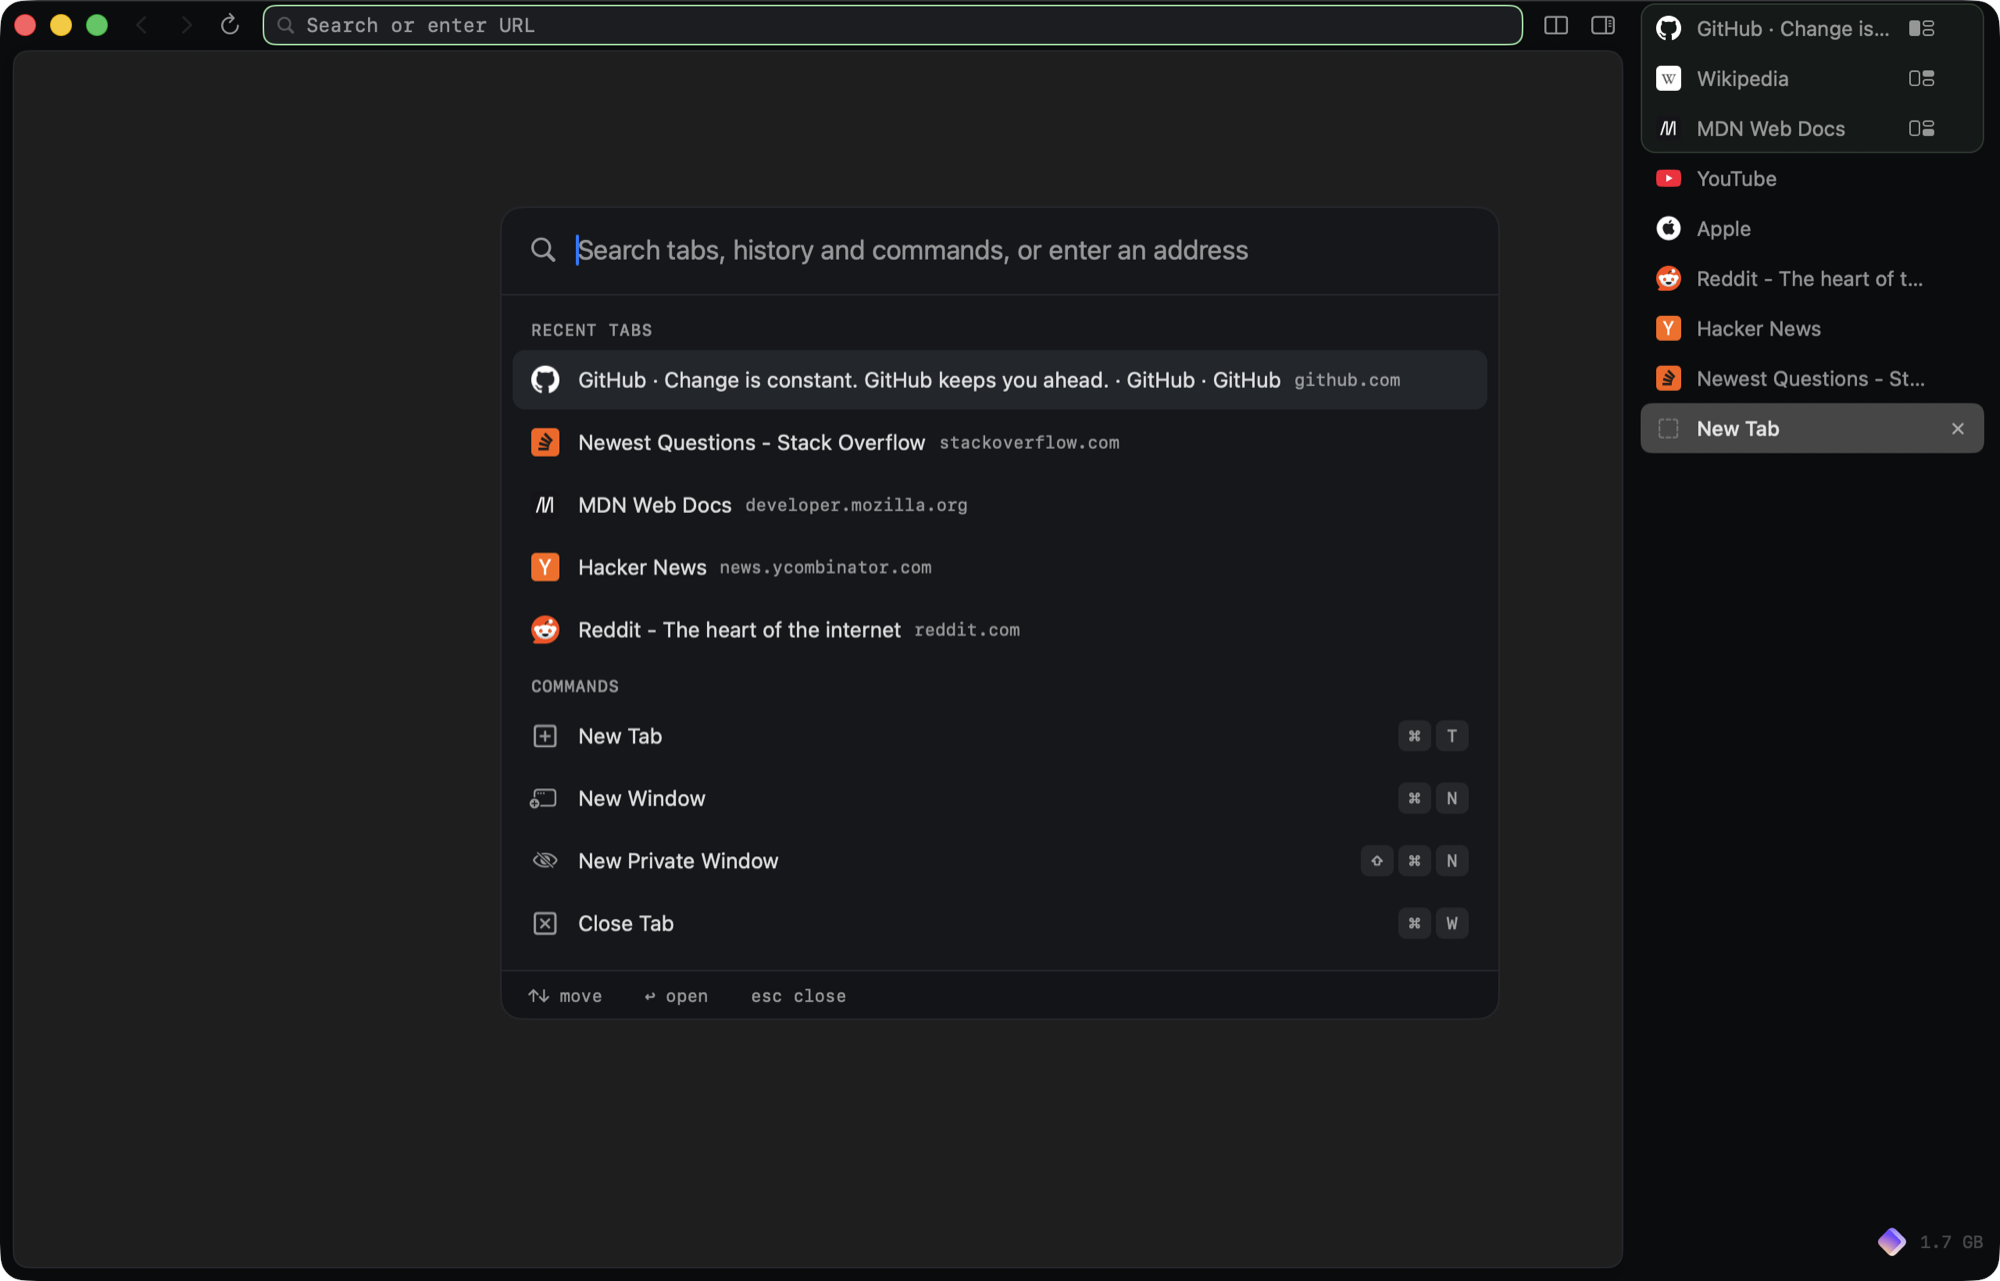
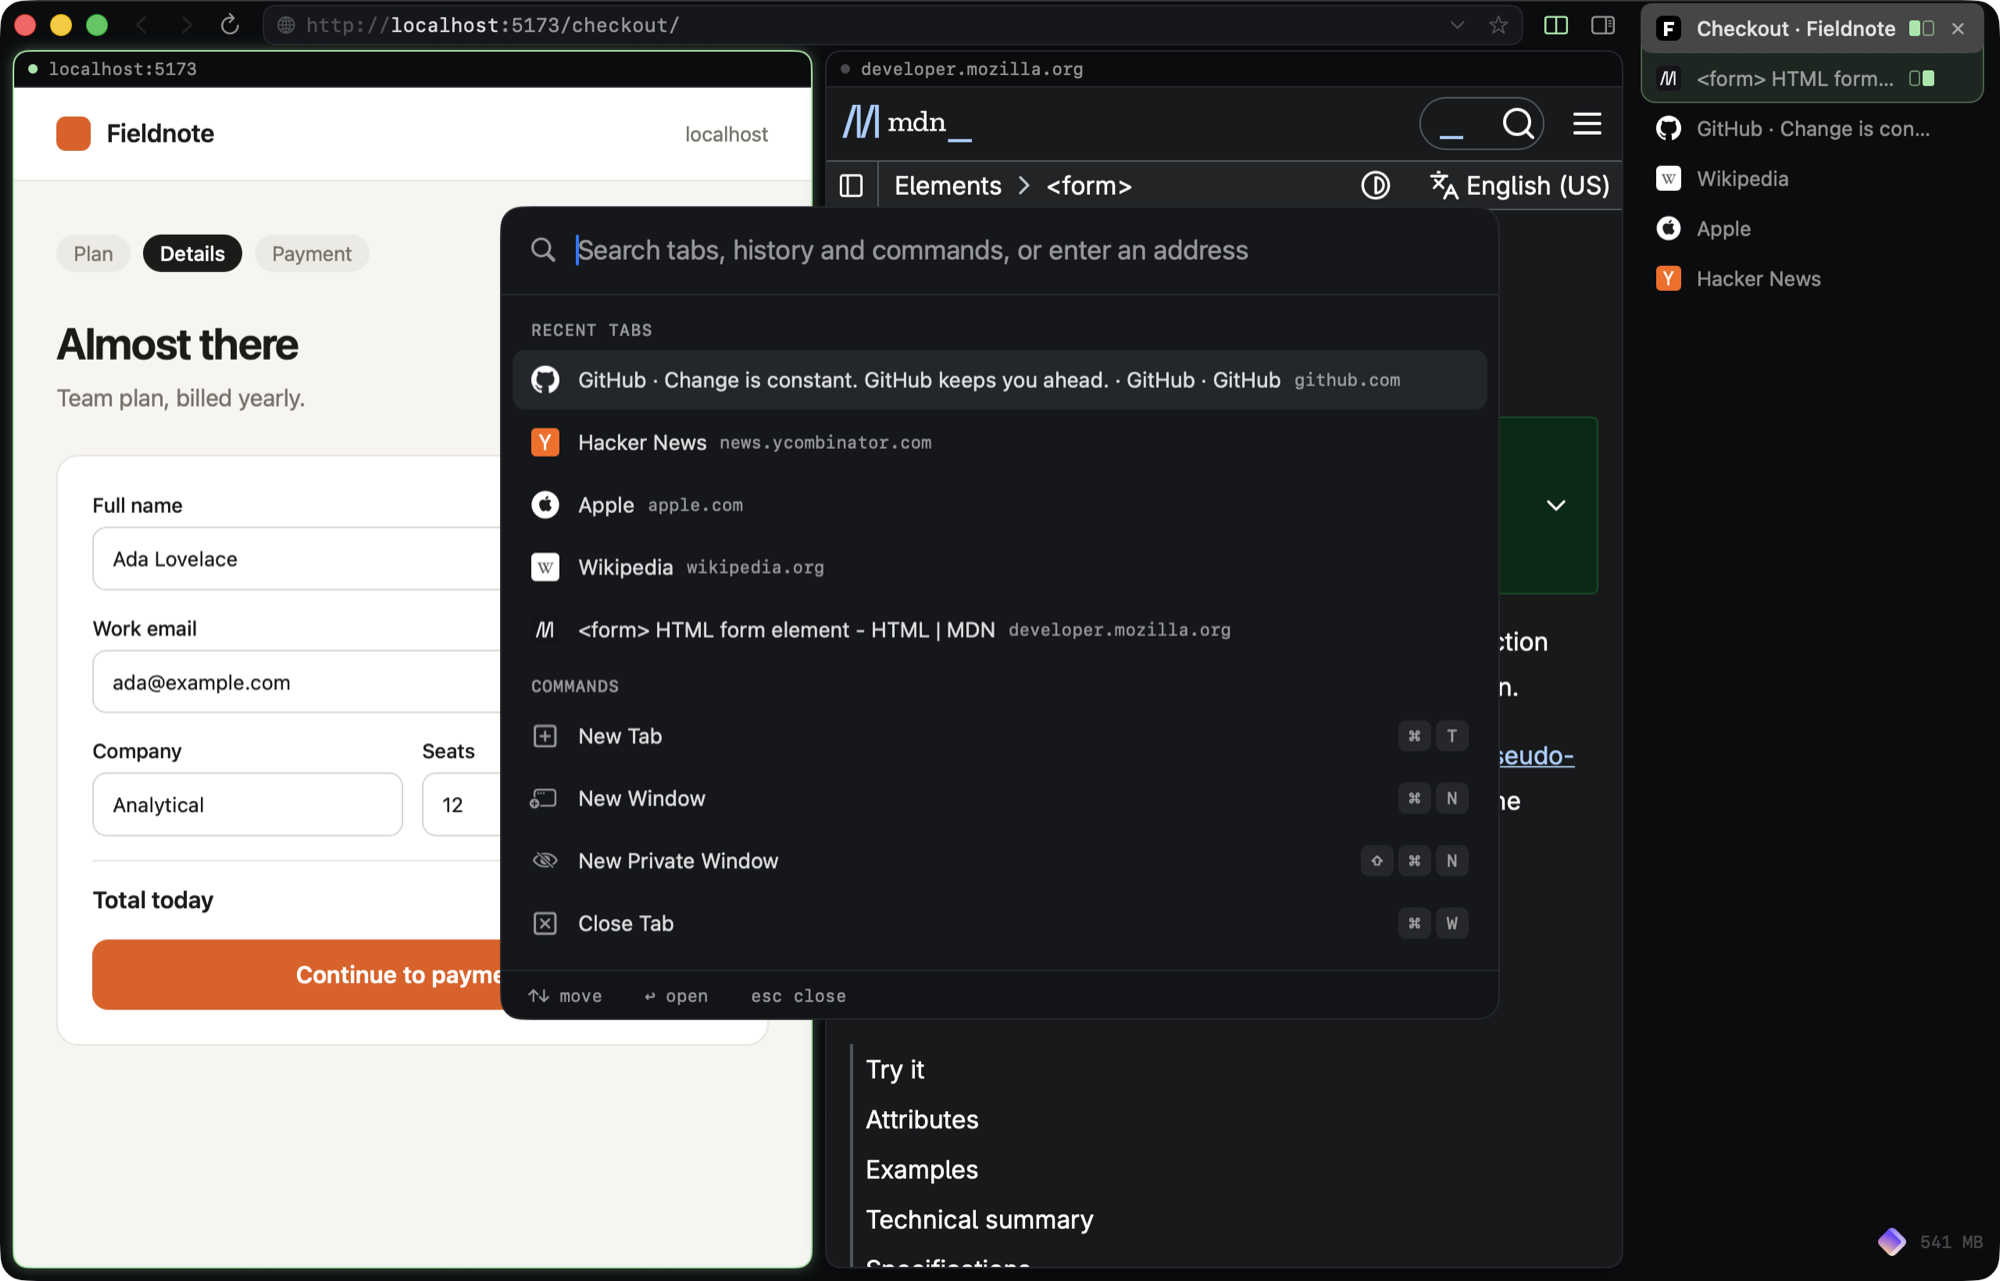
Show an agent at work in the hero, and design a real OG image
The hero is now a split view with an agent filling in a local app beside
its docs. The OG image is a designed 1200x630 card instead of a resized
screenshot.

diff --git a/site/src/routes/+page.svelte b/site/src/routes/+page.svelte
@@ -63,6 +63,9 @@
 	<meta property="og:title" content="Tern: a small, fast browser for the Mac" />
 	<meta property="og:description" content="Native on WebKit, built for the keyboard, and open to your coding agents." />
 	<meta property="og:image" content="https://tern.torsten.work/og.jpg" />
+	<meta property="og:image:width" content="1200" />
+	<meta property="og:image:height" content="630" />
+	<meta name="twitter:card" content="summary_large_image" />
 </svelte:head>
 
 <nav class="nav" aria-label="Main">
@@ -90,7 +93,7 @@
     </div>
     <div class="wrap wide shot">
       <div class="window" bind:this={hero}>
-        <enhanced:img src="../lib/assets/hero.png" alt="Tern's new tab page, with the address bar across the top and vertical tabs on the right." sizes="(min-width: 1240px) 1200px, 100vw" fetchpriority="high"></enhanced:img>
+        <enhanced:img src="../lib/assets/hero.png" alt="An agent filling in a checkout form in Tern, with a purple ring around its pane and docs in a split beside it, and the tab list on the right." sizes="(min-width: 1240px) 1200px, 100vw" fetchpriority="high"></enhanced:img>
       </div>
     </div>
     <div class="wrap">

diff --git a/README.md b/README.md
@@ -8,7 +8,7 @@
   <a href="docs/development.md">Development</a>
 </p>
 
-![Tern's new tab page, with the address bar across the top and the tab list on the right](docs/hero.png)
+![An agent filling in a checkout form in Tern, with a purple ring around its pane and docs in a split beside it, and the tab list on the right](docs/hero.png)
 
 > **Status:** early and moving fast. Tern works as a daily browser, but there are no prebuilt releases yet. Build it from source, which takes about a minute.
 
@@ -38,7 +38,7 @@ The first launch walks you through the tab list, compact mode, the main shortcut
 
 ### Move around
 
-![The command palette](docs/palette.png)
+![The command palette over a split view](docs/palette.png)
 
 | | |
 |---|---|
